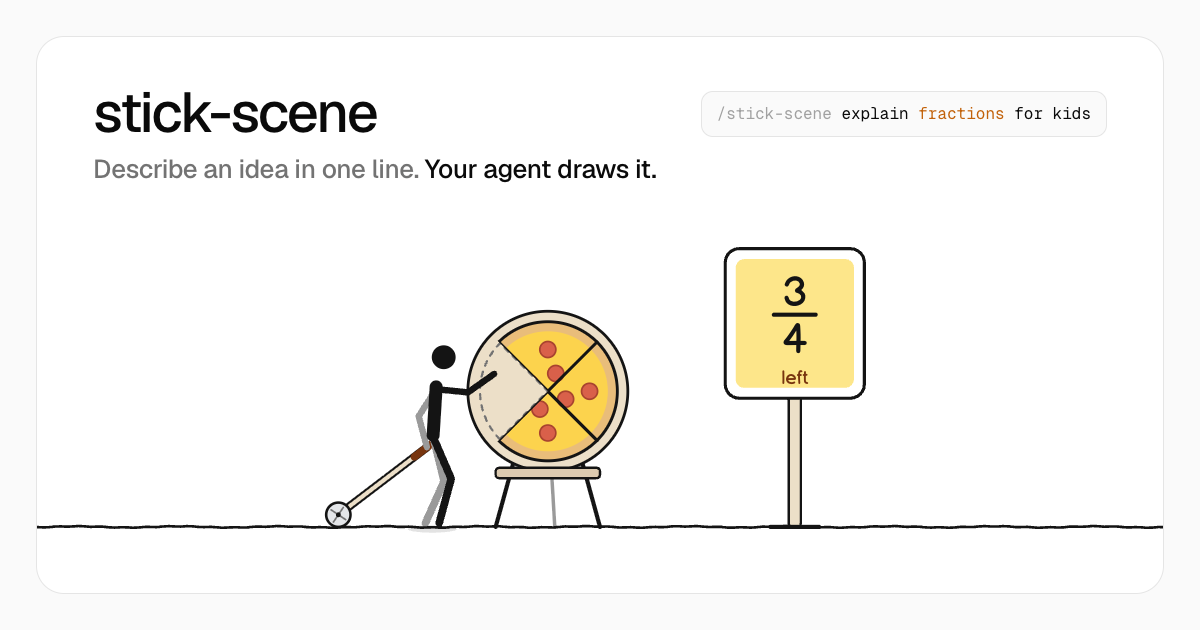
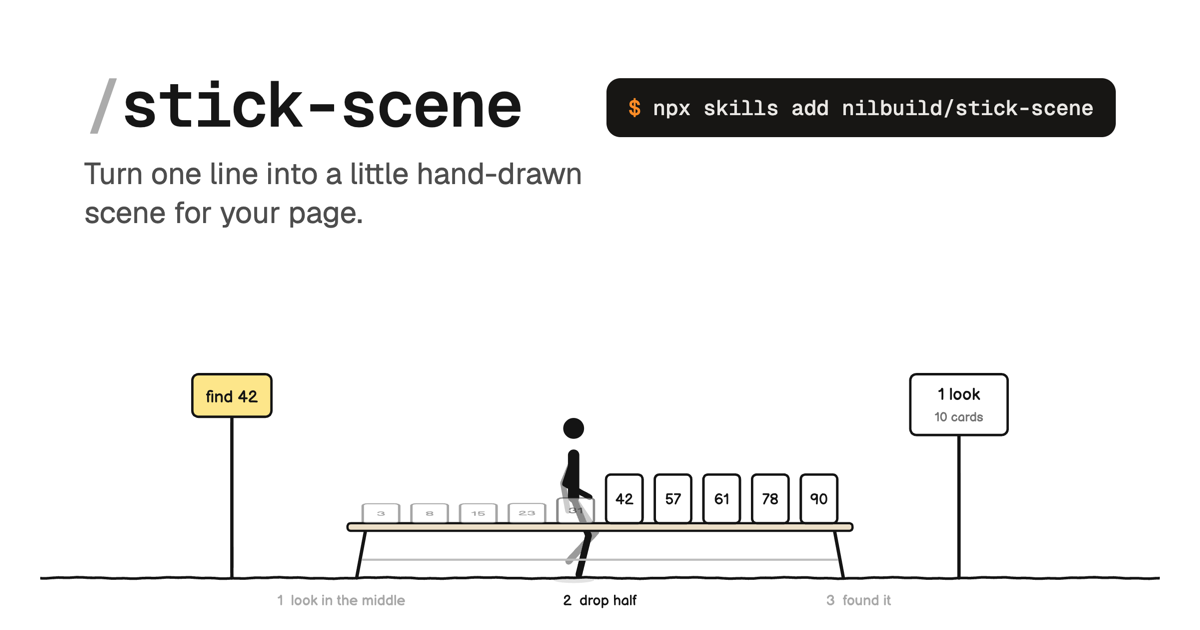
Add SEO tags, analytics and new OG image

Changed region(s): [[0.0308, 0.3921, 0.9867, 0.9651], [0.0617, 0.1206, 0.9558, 0.3619], [0.0617, 0.1206, 0.4317, 0.2111]]

diff --git a/site/index.html b/site/index.html
@@ -3,16 +3,53 @@
 <head>
 <meta charset="utf-8">
 <meta name="viewport" content="width=device-width, initial-scale=1, viewport-fit=cover">
-<title>stick-scene</title>
+<title>stick-scene: turn one line into a hand-drawn scene</title>
 <meta name="description" content="A skill for coding agents that turns one line into a little hand-drawn scene for your page.">
-<meta property="og:title" content="/stick-scene">
-<meta property="og:description" content="A skill for coding agents that turns one line into a little hand-drawn scene for your page.">
-<meta property="og:image" content="assets/og.png">
+<meta name="author" content="Kamran Ahmed">
+<meta name="theme-color" content="#ffffff">
+<link rel="canonical" href="https://kamran.fyi/stick-scene/">
+
 <meta property="og:type" content="website">
+<meta property="og:site_name" content="Kamran Ahmed">
+<meta property="og:url" content="https://kamran.fyi/stick-scene/">
+<meta property="og:title" content="stick-scene: turn one line into a hand-drawn scene">
+<meta property="og:description" content="A skill for coding agents that turns one line into a little hand-drawn scene for your page.">
+<meta property="og:image" content="https://kamran.fyi/stick-scene/assets/og.png">
+<meta property="og:image:width" content="1200">
+<meta property="og:image:height" content="630">
+<meta property="og:image:alt" content="A stick figure doing a binary search across ten numbered cards, next to npx skills add nilbuild/stick-scene">
+
 <meta name="twitter:card" content="summary_large_image">
-<meta name="twitter:title" content="/stick-scene">
+<meta name="twitter:site" content="@nilbuild">
+<meta name="twitter:creator" content="@nilbuild">
+<meta name="twitter:title" content="stick-scene: turn one line into a hand-drawn scene">
 <meta name="twitter:description" content="A skill for coding agents that turns one line into a little hand-drawn scene for your page.">
-<meta name="twitter:image" content="assets/og.png">
+<meta name="twitter:image" content="https://kamran.fyi/stick-scene/assets/og.png">
+<meta name="twitter:image:alt" content="A stick figure doing a binary search across ten numbered cards, next to npx skills add nilbuild/stick-scene">
+
+<script type="application/ld+json">
+{
+  "@context": "https://schema.org",
+  "@type": "SoftwareSourceCode",
+  "name": "stick-scene",
+  "description": "A skill for coding agents that turns one line into a little hand-drawn scene for your page.",
+  "url": "https://kamran.fyi/stick-scene/",
+  "codeRepository": "https://github.com/nilbuild/stick-scene",
+  "programmingLanguage": "JavaScript",
+  "license": "https://opensource.org/licenses/MIT",
+  "author": { "@type": "Person", "name": "Kamran Ahmed", "url": "https://kamran.fyi" }
+}
+</script>
+
+<script async src="https://www.googletagmanager.com/gtag/js?id=G-QD7PX9C379"></script>
+<script>
+window.dataLayer = window.dataLayer || [];
+function gtag() {
+  dataLayer.push(arguments);
+}
+gtag('js', new Date());
+gtag('config', 'G-QD7PX9C379');
+</script>
 <link rel="icon" href="assets/favicon.svg" type="image/svg+xml">
 <link rel="preconnect" href="https://fonts.googleapis.com">
 <link rel="stylesheet" href="https://fonts.googleapis.com/css2?family=Geist:wght@400;500&family=Geist+Mono:wght@400;500;600&display=swap">
